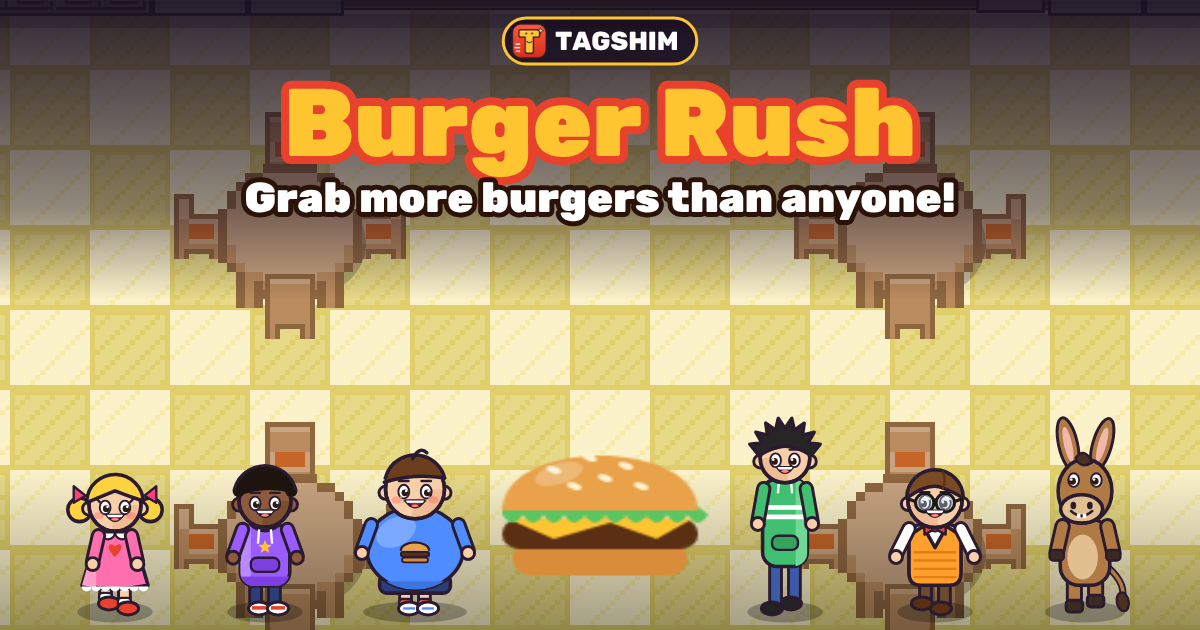
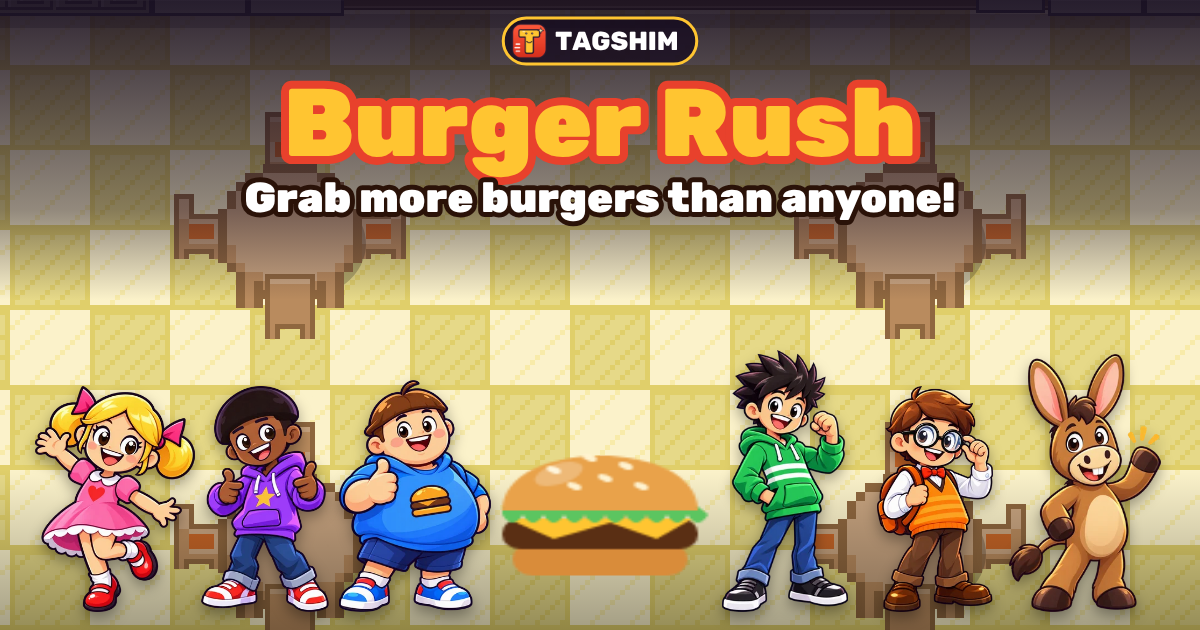
Burger: smooth crossfaded run for painted heroes; new cover with painted cast
Claude-Session: https://claude.ai/code/session_01ULB8fjd79C8Gr4zLyvVyMg

Changed region(s): [[0.5858, 0.5429, 0.9867, 0.9952], [0.0308, 0.6032, 0.4317, 0.9952]]

diff --git a/burger/index.html b/burger/index.html
@@ -442,11 +442,11 @@ const DUST={};
 const RUNM={"nerd":{"idle":3,"hd":[[4,270,59],[2,271,62],[2,269,61],[3,269,61],[0,270,65],[0,271,66],[0,271,64],[0,270,66],[49,253,54],[72,235,53]]},"kid":{"idle":1,"hd":[[0,281,58],[0,284,58],[0,283,58],[0,283,58],[0,282,59],[0,268,59],[0,270,59],[0,279,60],[17,277,57],[45,256,54]]},"donkey":{"idle":2,"hd":[[0,279,46],[0,280,48],[0,279,49],[0,280,49],[0,269,48],[0,255,51],[0,268,49],[0,264,50],[38,255,45],[30,249,50]]},"girl":{"idle":0,"hd":[[8,273,86],[9,274,86],[0,271,94],[2,272,96],[0,263,94],[0,259,92],[0,260,95],[0,262,93],[44,240,52],[59,209,46]]},"fat":{"idle":1,"hd":[[2,267,56],[2,266,57],[2,266,56],[2,269,57],[0,253,60],[0,254,62],[0,257,62],[0,255,62],[28,246,55],[76,233,53]]},"tall":{"idle":0,"hd":[[0,278,52],[0,275,52],[0,274,52],[0,274,53],[0,249,55],[0,245,54],[1,245,54],[0,252,54],[38,228,48],[64,206,46]]}},RUNH={girl:128,fat:140,tall:160,nerd:130,donkey:158,kid:130},RUNI={};
 function runImg(c){if(!RUNI[c]){const i=new Image();i.src='img/r_'+c+'.webp';RUNI[c]=i}return RUNI[c]}Object.keys(RUNM).forEach(runImg);
 function paintedImg(v){if(!RUNM[v.c]||LOC==='box'||(v.hat&&v.hat.startsWith('s_')))return null;const im=runImg(v.c);return im.complete&&im.naturalWidth?im:null}
-function drawHeroPainted(g,v,t,pim){const m=RUNM[v.c],u=RUNH[v.c]/292;let fi=v.moving?4+Math.floor(t*10)%4:m.idle;const pk=v.id&&PUNCH[v.id]&&!v.stun?(performance.now()-PUNCH[v.id][0])/320:9;if(pk<1)fi=pk<.3||pk>.8?8:9;
+function drawHeroPainted(g,v,t,pim){const m=RUNM[v.c],u=RUNH[v.c]/292;const ph=t*8.5,pf=ph-Math.floor(ph);let fi=v.moving?4+Math.floor(ph)%4:m.idle,fb=v.moving?4+(Math.floor(ph)+1)%4:-1,bw=pf*pf*(3-2*pf);const pk=v.id&&PUNCH[v.id]&&!v.stun?(performance.now()-PUNCH[v.id][0])/320:9;if(pk<1){fi=pk<.3||pk>.8?8:9;fb=-1}if(v.stun)fb=-1;
   if(v.moving&&v.id&&fxReady&&!v.stun){const n=performance.now();if(!DUST[v.id]||n-DUST[v.id]>200){DUST[v.id]=n;burst(v.x-(v.face||1)*14,v.y+24,LOC==='snow'?'snow':'puff',1,.32)}}
   g.save();g.translate(v.x,v.y);if(v.face<0)g.scale(-1,1);
-  if(v.stun)g.rotate(Math.sin(t*9)*.09);else if(v.moving&&pk>=1)g.translate(0,-Math.abs(Math.sin(t*15.7))*2.5);else if(pk>=1){const sq=1+Math.sin(t*2.6+(v.x||0)*.01)*.014;g.scale(1/Math.sqrt(sq),sq)}
-  g.drawImage(pim,fi*420,0,420,300,-210*u,-298*u,420*u,300*u);const [hx,hy,hr]=m.hd[fi];
+  if(v.stun)g.rotate(Math.sin(t*9)*.09);else if(pk>=1){const sq=1+Math.sin(t*2.6+(v.x||0)*.01)*.014;g.scale(1/Math.sqrt(sq),sq)}
+  g.drawImage(pim,fi*420,0,420,300,-210*u,-298*u,420*u,300*u);if(fb>=0&&bw>.04){g.globalAlpha=bw;g.drawImage(pim,fb*420,0,420,300,-210*u,-298*u,420*u,300*u);g.globalAlpha=1}const [hx,hy,hr]=m.hd[fi];
   if(v.hat){const R=Math.min(hr*u,23);g.save();g.translate(hx*u,0);drawHatAt(g,v.hat,-hy*u+R*1.15,R);g.restore()}
   if(v.stun){g.fillStyle='#ffe14d';g.strokeStyle=OUT;g.lineWidth=1.5;const y=-hy*u-8;for(let i=0;i<3;i++){const a=t*6+i*2.1;star(g,hx*u+Math.cos(a)*24,y+Math.sin(a)*6,6);g.stroke()}}
   g.restore()}
